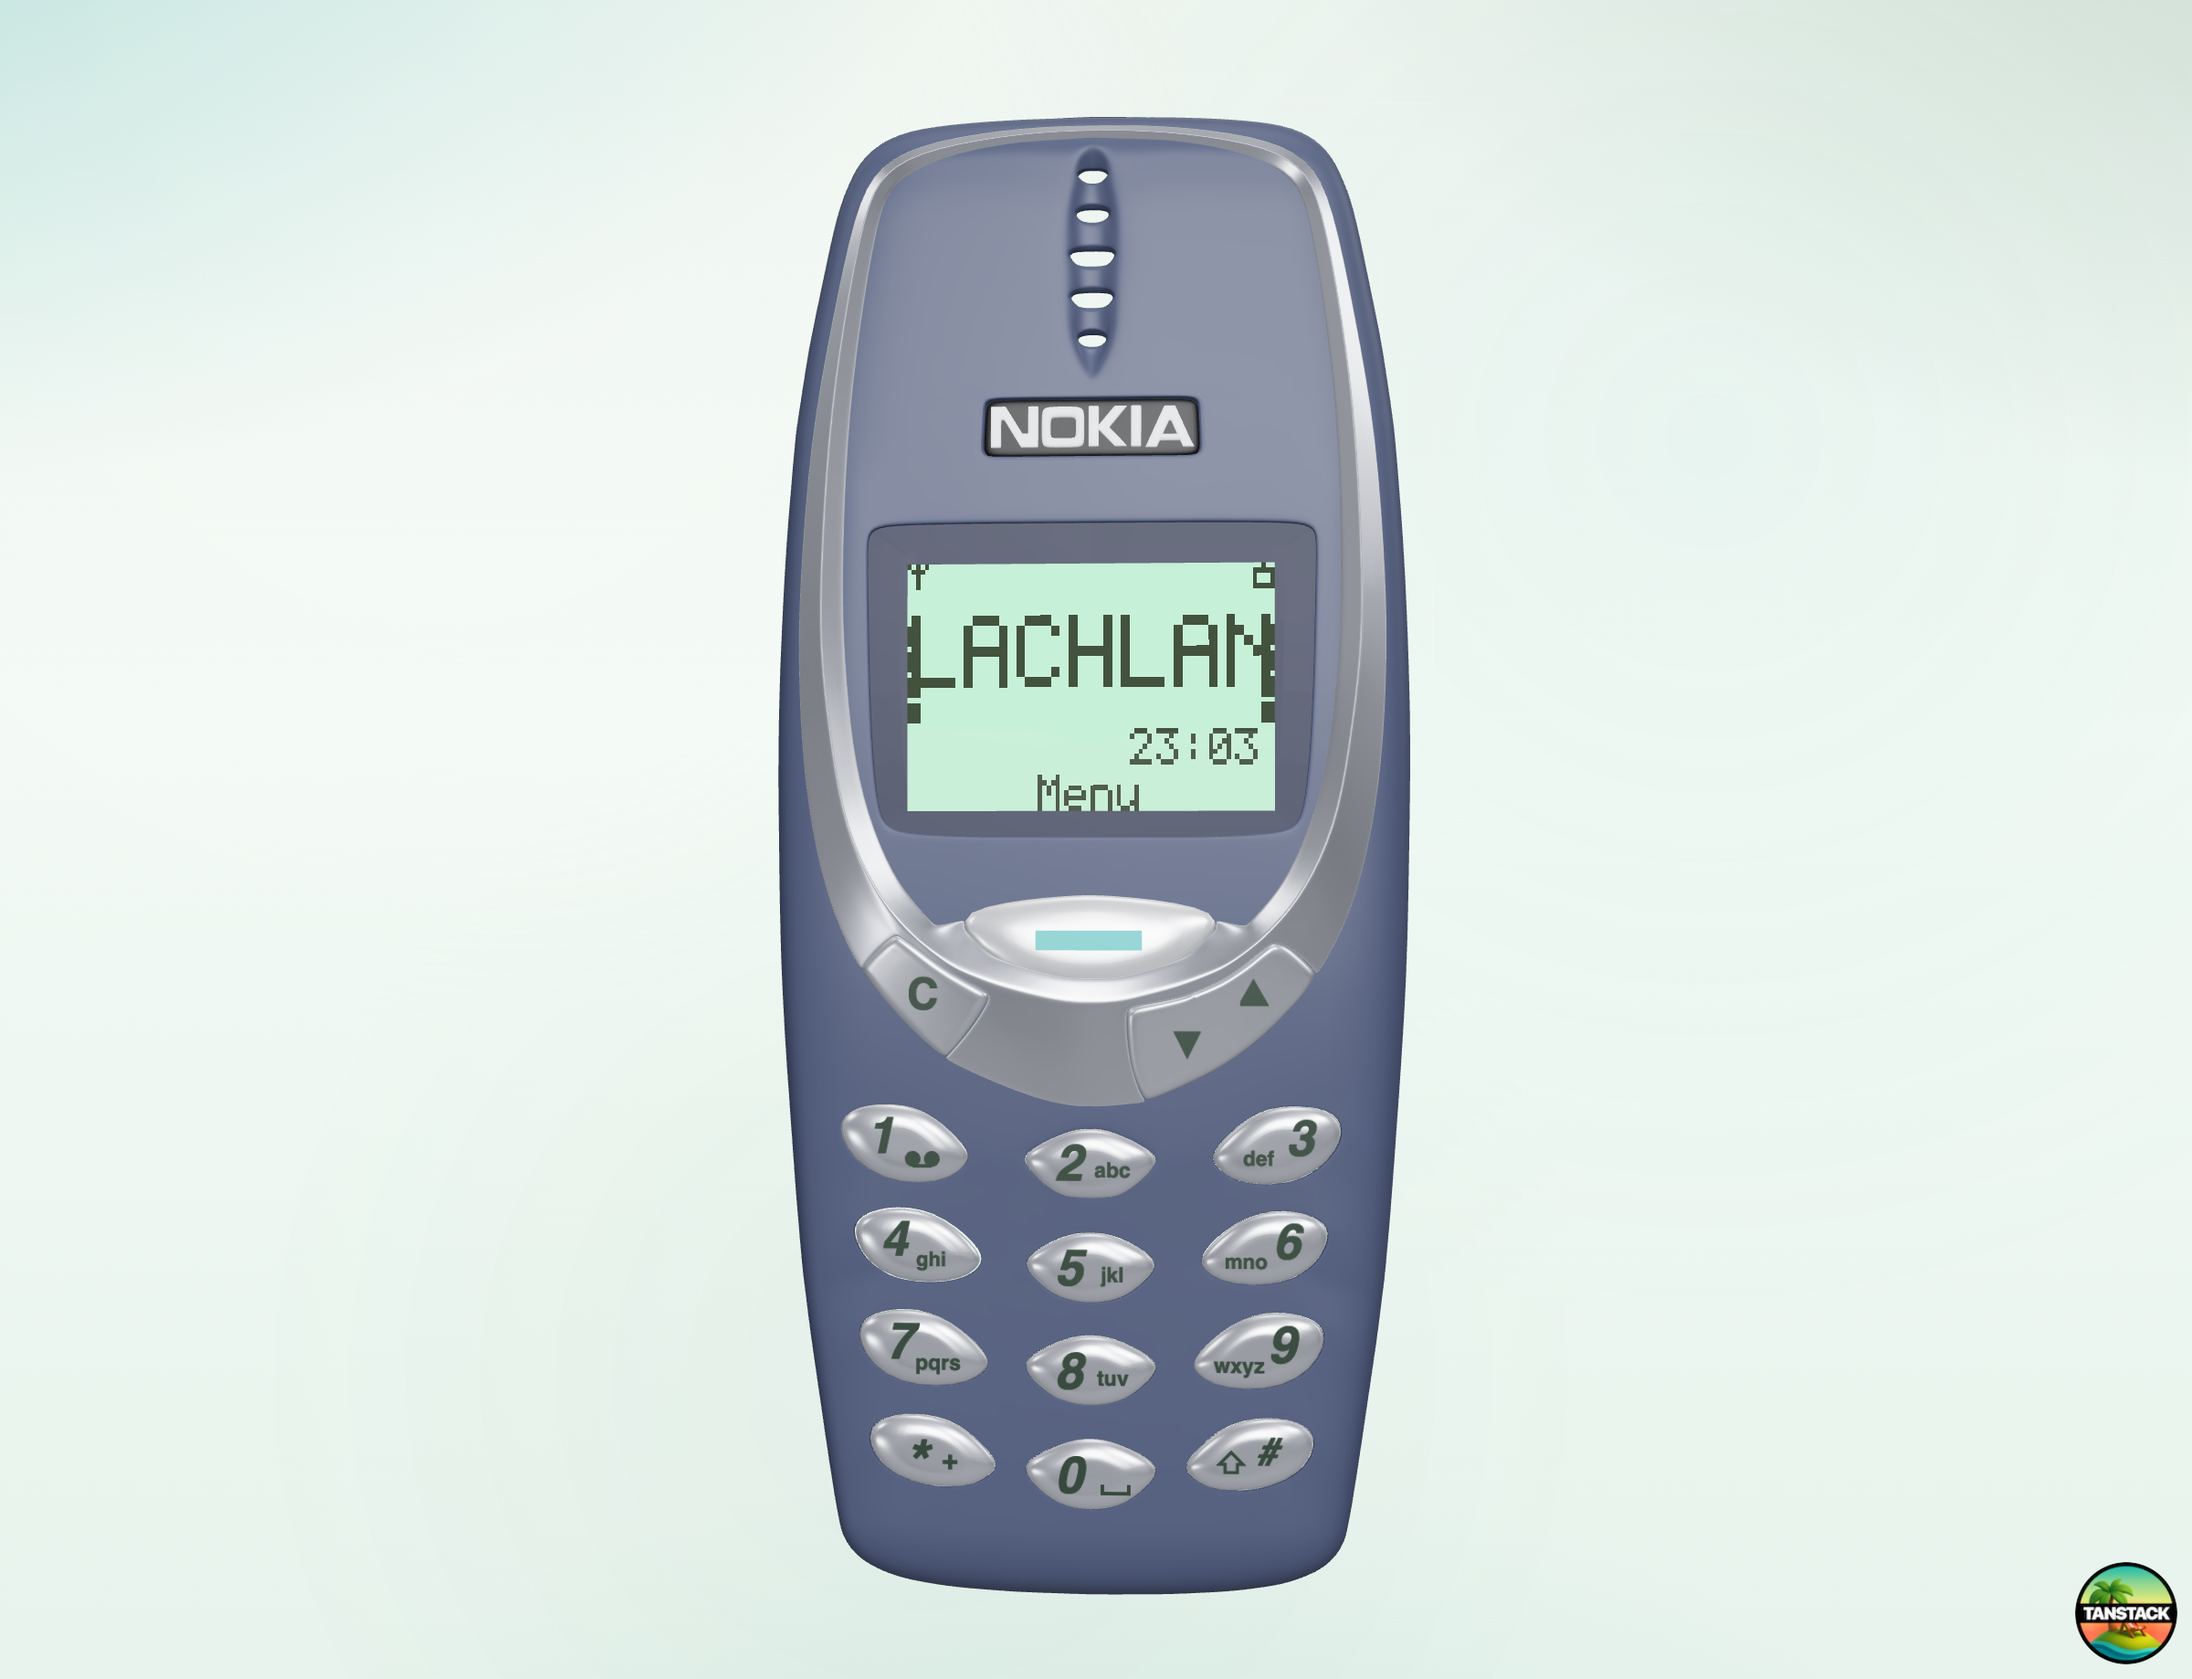
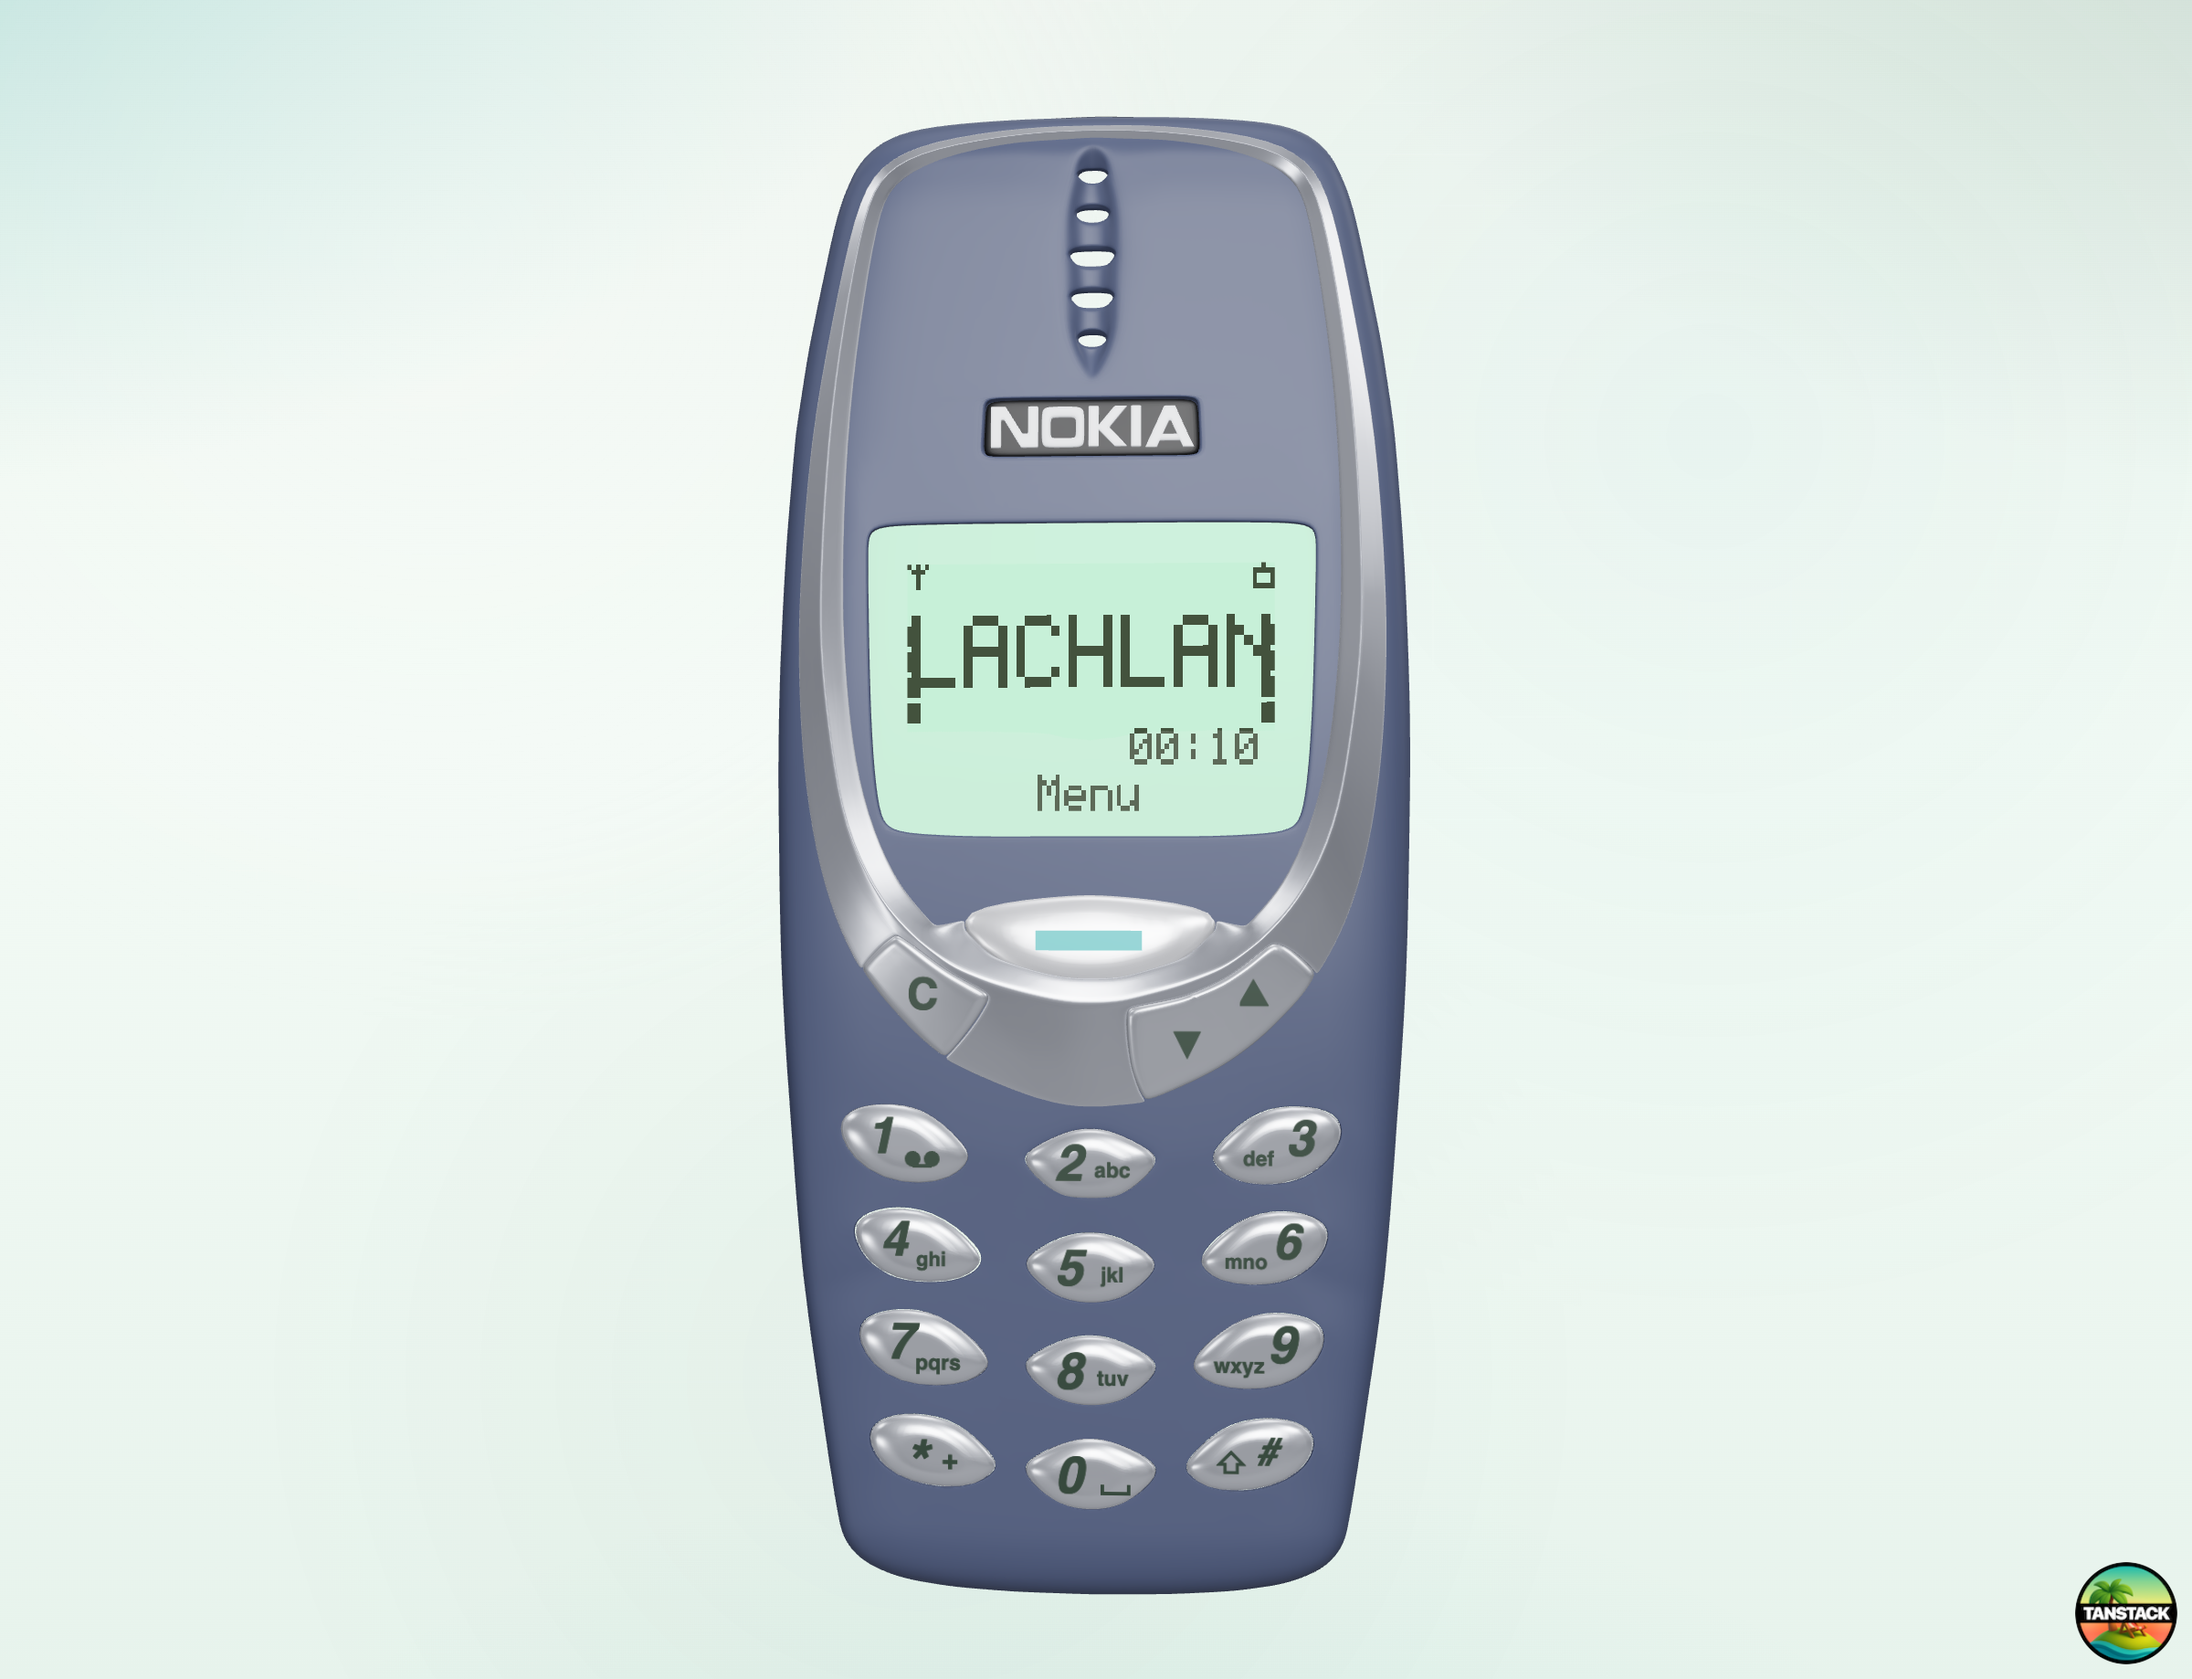
feat(phone-3d): LCD surround in screenBgColor + reflective screen glass
The surround plane now fills with screenBgColor multiplied by the same dim
tint as the pixels, so both layers read as ONE continuous LCD in either
backlight state (the prop is live again — same contract as the v1 era). The
model's own screen_glass pane is now visibly reflective (clearcoat + env map,
opacity 0.16, depthWrite off) instead of near-invisible.

Changed region(s): [[0.375, 0.3101, 0.625, 0.4962]]

diff --git a/packages/phone-3d/src/Nokia3310.tsx b/packages/phone-3d/src/Nokia3310.tsx
@@ -106,14 +106,19 @@ export function Nokia3310({
         metalness: 0.05,
       });
     }
-    // glass: barely-there gloss over the LCD
+    // glass: the model's own pane over the LCD — visibly reflective (picks up
+    // the stage's environment map) while staying clear over the pixels.
     if (nodes.glass) {
       nodes.glass.material = new THREE.MeshPhysicalMaterial({
         color: "#ffffff",
         transparent: true,
-        opacity: 0.08,
-        roughness: 0.08,
+        opacity: 0.16,
+        roughness: 0.04,
         metalness: 0,
+        clearcoat: 1,
+        clearcoatRoughness: 0.06,
+        envMapIntensity: 1.4,
+        depthWrite: false,
       });
     }
   }, [model, nodes]);
@@ -130,17 +135,13 @@ export function Nokia3310({
   }, [screenCanvas]);
   useEffect(() => () => texture.dispose(), [texture]);
 
-  // Two layers, like the real phone: the model's oversized display plane
-  // becomes the DARK SURROUND, and a smaller child plane carries the pixels
-  // (SCREEN_SCALE of the visible aperture — the window itself is fixed
-  // geometry, so a smaller LCD means surround showing around it).
+  // Two layers: the model's oversized display plane becomes the LCD SURROUND
+  // (filled with screenBgColor so it reads as one continuous screen — same
+  // contract as the v1 era), and a smaller child plane carries the pixels
+  // (SCREEN_SCALE of the visible aperture).
   const lcd = useMemo(() => {
     if (nodes.screen === null) return null;
-    nodes.screen.material = new THREE.MeshStandardMaterial({
-      color: MATERIALS.bezel.color,
-      roughness: MATERIALS.bezel.roughness,
-      metalness: MATERIALS.bezel.metalness,
-    });
+    nodes.screen.material = new THREE.MeshBasicMaterial({ toneMapped: false });
     const rect = visibleApertureRect(nodes.screen);
     if (rect === null) return null;
     const existing = nodes.screen.getObjectByName("lcd_pixels");
@@ -155,15 +156,20 @@ export function Nokia3310({
     return plane;
   }, [nodes, texture]);
 
-  // Tint/dim reacts to props without rebuilding the material.
+  // Tint/dim reacts to props without rebuilding materials. The surround is
+  // screenBgColor multiplied by the same dim tint as the pixels, so both
+  // layers read as one LCD in either backlight state.
   useEffect(() => {
-    if (lcd === null) return;
-    const mat = lcd.material as THREE.MeshBasicMaterial;
-    mat.map = texture;
-    mat.color.set(backlightOn ? "#ffffff" : SCREEN_DIM_TINT);
-    mat.needsUpdate = true;
-  }, [lcd, texture, backlightOn]);
-  void screenBgColor; // the dark surround plays that role in v3
+    if (lcd === null || nodes.screen === null) return;
+    const tint = new THREE.Color(backlightOn ? "#ffffff" : SCREEN_DIM_TINT);
+    const pixels = lcd.material as THREE.MeshBasicMaterial;
+    pixels.map = texture;
+    pixels.color.copy(tint);
+    pixels.needsUpdate = true;
+    const surround = nodes.screen.material as THREE.MeshBasicMaterial;
+    surround.color.set(screenBgColor).multiply(tint);
+    surround.needsUpdate = true;
+  }, [lcd, nodes, texture, backlightOn, screenBgColor]);
 
   const versionRef = useRef(screenVersion);
   versionRef.current = screenVersion;

diff --git a/packages/phone-3d/src/types.ts b/packages/phone-3d/src/types.ts
@@ -28,8 +28,8 @@ export interface Nokia3310Props {
   backlightOn?: boolean;
   /** Visually depress keys driven externally (e.g. keyboard input). */
   pressedKeys?: ReadonlySet<Nokia3310Key>;
-  /** Colour of the LCD surround fill. Accepted for contract stability; the v3
-   *  mesh display has no surround gap, so this is currently unused. */
+  /** Colour of the LCD surround fill around the pixel plane. Pass the same
+   *  `bg` you gave the screen renderer. Defaults to the classic green. */
   screenBgColor?: string;
   /** URL of the Draco-compressed GLB (served as a static asset by the host). */
   modelUrl?: string;
